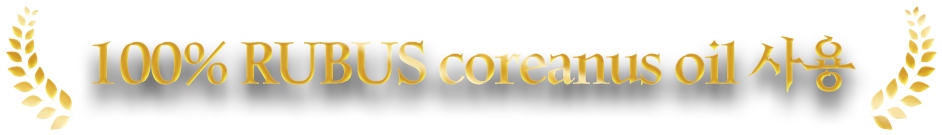
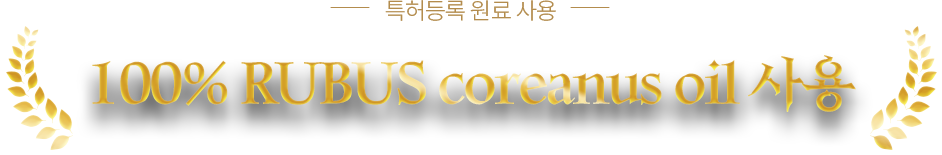
이미지 수정

diff --git a/css/power.css b/css/power.css
@@ -130,7 +130,7 @@ textarea {width: 100%; height:160px; padding:0 30px; border:1px solid #cccccc; r
 .radio-btn input:checked + label {color:#fff; font-weight: bold; background-color: var(--primary-color);}
 
 .sec-info {padding:var(--px-large) 0; background-color: #170103;}
-.sec11-title {margin:0 auto; text-align: center;}
+.sec11-title img {display: block; max-width: 280px; margin:0 auto;}
 .img-info {width: 100%; margin:0 auto; text-align: center;}
 .info-title {display: inline-block; margin-bottom:25px;}
 

diff --git a/html/power.html b/html/power.html
@@ -67,9 +67,6 @@
     <!-- sec12 제품상세 -->
     <section class="sec-info">
       <div class="sec-inner">
-        <div class="sec11-title">
-          <img src="../images/sec11_title.png" alt="특허등록 원료 사용">
-        </div>        
         <div class="img-info">
           <img src="../images/sec11_2.png" class="info-title" alt="100% RUBUS coreanus oil 사용">
           <img src="../images/sec11_3.png" alt="제품명: 더복력">
